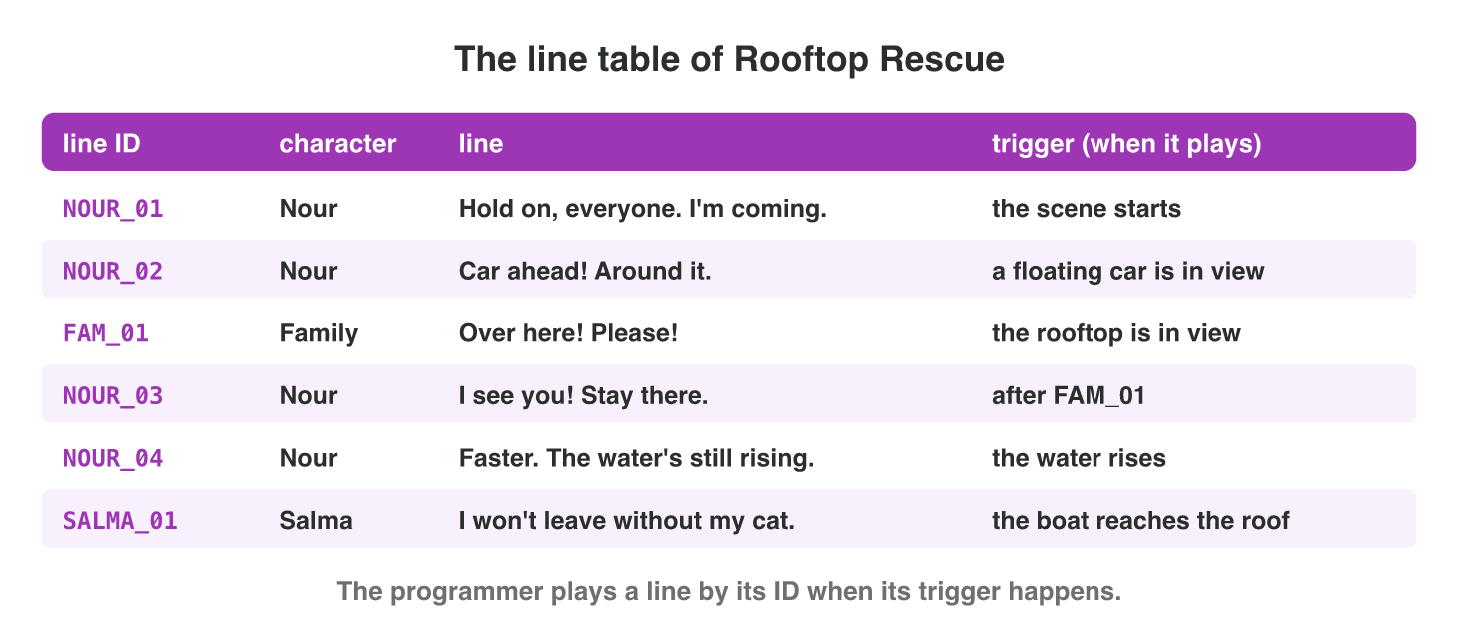
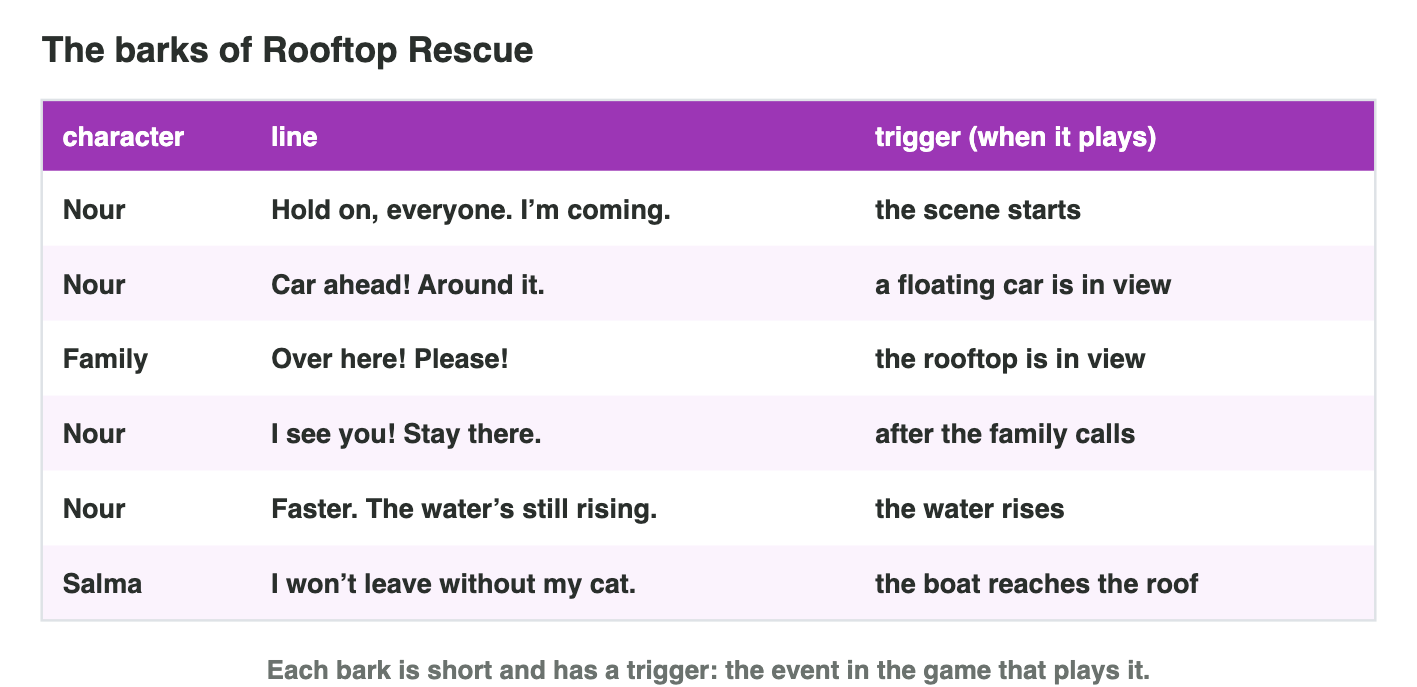
Digital Media unit 4 in progress: Lecture 4 from old lecture 7 (no Courier, one-page-one-minute, line IDs or on-the-nose; character voice and the scene card from old 8); Rooftop Rescue and the bark table without line IDs; status for the remaining work

diff --git a/courses/digital-media/week-04/sims/rooftop-rescue.html b/courses/digital-media/week-04/sims/rooftop-rescue.html
@@ -31,7 +31,7 @@
   <div class="row"><button id="row" type="button">Row</button><button id="script" type="button" class="ghost">Show the opening script</button><button id="again" type="button" class="ghost">Play again</button></div>
   <div class="choice" id="choice"></div>
   <p id="msg" class="message">The opening: Nour jumps into the boat at the jetty.</p>
-  <div class="wrap"><table><thead><tr><th>line ID</th><th>character</th><th>line</th><th>trigger</th></tr></thead><tbody id="rows"></tbody></table></div>
+  <div class="wrap"><table><thead><tr><th>character</th><th>line</th><th>trigger</th></tr></thead><tbody id="rows"></tbody></table></div>
   <div class="page" id="page" hidden>
     <p>EXT. FLOODED STREET – DUSK</p>
     <p>Brown water fills the street up to the windows. A small rowing boat knocks against a broken jetty.</p>
@@ -49,7 +49,7 @@
     ["NOUR_01", "Nour", "Hold on, everyone. I'm coming.", "the scene starts", 0],
     ["NOUR_02", "Nour", "Car ahead! Around it.", "a floating car is in view", 28],
     ["FAM_01", "Family", "Over here! Please!", "the rooftop is in view", 55],
-    ["NOUR_03", "Nour", "I see you! Stay there.", "after FAM_01", 58],
+    ["NOUR_03", "Nour", "I see you! Stay there.", "after the family calls", 58],
     ["NOUR_04", "Nour", "Faster. The water's still rising.", "the water rises", 76],
     ["SALMA_01", "Salma", "I won't leave without my cat.", "the boat reaches the roof", 100],
   ];
@@ -59,14 +59,14 @@
   let W = 0, H = 0, p = 0, v = 0, played = [], bubble = null, lastT = 0, arrived = false, finished = false, water = 0, audio = null, t0 = performance.now();
 
   function rows() {
-    $("rows").innerHTML = LINES.map((l, i) => `<tr class="${bubble && bubble.i === i ? "now" : played.includes(i) ? "played" : ""}"><td>${l[0]}</td><td>${l[1]}</td><td>${l[2]}</td><td>${l[3]}</td></tr>`).join("");
+    $("rows").innerHTML = LINES.map((l, i) => `<tr class="${bubble && bubble.i === i ? "now" : played.includes(i) ? "played" : ""}"><td>${l[1]}</td><td>${l[2]}</td><td>${l[3]}</td></tr>`).join("");
     $("heard").textContent = `Lines heard: ${played.length} / ${LINES.length}`;
   }
   function blip(f) { try { audio = audio || new (window.AudioContext || window.webkitAudioContext)(); const o = audio.createOscillator(), g = audio.createGain(); o.type = "triangle"; o.frequency.value = f; g.gain.value = 0.05; o.connect(g); g.connect(audio.destination); g.gain.exponentialRampToValueAtTime(0.0001, audio.currentTime + 0.2); o.start(); o.stop(audio.currentTime + 0.2); } catch (_) {} }
   function play(i) {
     if (played.includes(i)) return;
     played.push(i); lastT = performance.now(); bubble = { i, t: lastT }; blip(i === 2 ? 700 : 520);
-    $("msg").textContent = `${LINES[i][0]} plays now: its trigger is "${LINES[i][3]}".`;
+    $("msg").textContent = `${LINES[i][1]}: "${LINES[i][2]}" plays now: its trigger is "${LINES[i][3]}".`;
     if (i === 4) water = 1;
     rows();
   }
@@ -74,16 +74,16 @@
     arrived = true; $("lvl").textContent = "Scene: Salma's roof";
     $("choice").className = "choice on"; $("choice").innerHTML = "";
     [["a", "Then bring the cat. Hurry."], ["b", "There's no time for a cat!"]].forEach(([k, t]) => {
-      const b = document.createElement("button"); b.type = "button"; b.className = "ghost"; b.dataset.c = k; b.textContent = `NOUR_05${k}: "${t}"`;
+      const b = document.createElement("button"); b.type = "button"; b.className = "ghost"; b.dataset.c = k; b.textContent = `Nour: "${t}"`;
       b.addEventListener("click", () => choose(k)); $("choice").appendChild(b);
     });
-    $("msg").textContent = "SALMA_01 plays. Choose Nour's answer: this line is a branch (lecture 5).";
+    $("msg").textContent = "Salma: \"I won't leave without my cat.\" Choose Nour's answer: this line is a branch (lecture 3).";
   }
   function choose(k) {
     if (finished) { $("msg").textContent = "The scene is over. Press Play again."; return; }
-    if (k === "b") { $("msg").textContent = "SALMA_02b: \"Then I stay.\" — Salma sits down again. This branch leads nowhere: try the other answer."; $("msg").className = "message"; return; }
+    if (k === "b") { $("msg").textContent = "Salma: \"Then I stay.\" — Salma sits down again. This branch leads nowhere: try the other answer."; $("msg").className = "message"; return; }
     finished = true; $("choice").className = "choice";
-    $("msg").textContent = "SALMA_02a: \"Thank you, child. But my house…\" The street scene ends: CUT TO: EXT. ROOFTOP – NIGHT (the next scene, in lecture 8). 🎉 Every line played on its trigger.";
+    $("msg").textContent = "Salma: \"Thank you, child. But my house…\" The street scene ends: CUT TO: EXT. ROOFTOP – NIGHT (the next scene, in Seminar 4). 🎉 Every line played on its trigger.";
     $("msg").className = "message good"; blip(880); setTimeout(() => blip(1100), 120);
   }
   function rowOnce() {

diff --git a/plans/restructure-status.md b/plans/restructure-status.md
@@ -21,7 +21,9 @@ Branch `restructure-units` (signed commits, one per unit). Plan:
   Math homework 1–14 and Computing Systems homework 1–13 match the new tasks
   (CS solutions in week-09 … week-14 since the shift).
 
-- **Digital Media units 1–3** (Lectures 1–3, Seminars 1–3, homework 1–3); units
+- **Digital Media units 1–3** (Lectures 1–3, Seminars 1–3, homework 1–3) and
+  **Lecture 4** (week-04: no Courier, line IDs or "on-the-nose"; voice and scene
+  card from old 8; Rooftop Rescue and the bark figure without IDs). Units
   8–14 already moved to week-09 … week-15 (both repos). DM keeps one running
   story per lecture (Skyward Kite, Silent Station, …): the audit flagged
   repeated case numbers only in Game Math and Computing Systems.
@@ -29,7 +31,10 @@ Branch `restructure-units` (signed commits, one per unit). Plan:
 
 ## Still to do
 
-1. **Digital Media units 4–14** (same pattern; fix: L19 reference) and **Digital Skills** (15 units: Lectures 1–10, Practice 1–5,
+1. **Digital Media: Seminar 4** (from old `lesson-08*` in week-04, still there;
+   Task with AI: a scene drafted with AI, rewritten in screenplay format) and
+   homework 4 (due before lecture 5, Lecture 4 only); then **units 5–14**
+   (same pattern; fix: L19 reference) and **Digital Skills** (15 units: Lectures 1–10, Practice 1–5,
    Online activities 1–15 that practise their unit; see its NOTES.md).
 2. Every page: `Why:` under every Try it answer, `::: {.check}` in every
    Do it / Lab task / Activity; seminars in the seminar format (templates in
